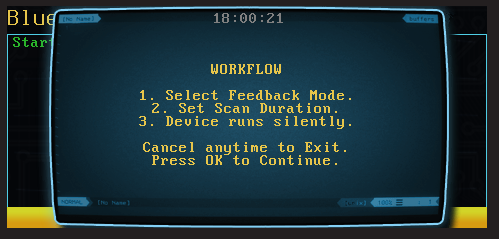
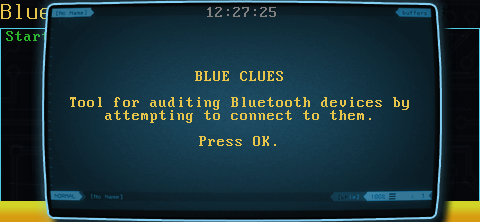
Scanner upgrade for more info
Upgraded Bluetooth scanner to allow for connection attempts to get as much info as possible.

Also integrated with Log Viewer payload for instant parsing to console after scan.

diff --git a/library/user/reconnaissance/blue_clues/README.md b/library/user/reconnaissance/blue_clues/README.md
@@ -1,56 +1,72 @@
 # Blue Clues
 
-**Blue Clues** is a Bluetooth reconnaissance tool for the WiFi Pineapple Pager. 
+**Blue Clues** is an active Bluetooth auditing tool for the WiFi Pineapple Pager. Unlike passive scanners that simply listen, Blue Clues actively interrogates devices to uncover their **Vendor**, **Device Type**, and **Services**.
 
-**Update (v2): Passive Scanning Mode**
-This tool has been reworked to focus on stealth and autonomy. Instead of manual "scan-and-review" cycles, Blue Clues now acts as a **Passive Scanner**. You configure the duration and feedback behavior once, and the device runs silently in the background, only alerting you when a target is captured.
+**Update: Active Audit & Deep Scan**
+This tool has been upgraded from a simple scanner to an **Active Auditor**. It now performs OUI Lookups, Class-of-Device translation (e.g., identifying "Headsets" vs "Phones"), and Service Discovery (SDP) to reveal what a device is actually capable of.
 
 ---
 
 ### Features
-* **Passive/Silent Operation:** The screen remains dark during operation to maintain stealth.
-* **Custom Feedback:** Configure alerts (LED, Vibe, Both, or Silent) to trigger *only* when a new device is found.
-* **Auto-Logging:** All findings are appended to a local file in real-time.
-* **Timestamped Entries:** Every captured device is logged with the exact time of discovery.
+* **Active Interrogation:** Connects to devices to request their "Real Name" if they are hiding it.
+* **Deep Scan (SDP):** Optional mode to enumerate all services (Audio, File Transfer, etc.) offered by a device.
+* **Vendor & Type Lookup:** Automatically translates MAC addresses into Manufacturers (OUI) and Hex Codes into Device Types (e.g., `[Headset]`, `[Smart Phone]`).
+* **Smart Deduplication:** Tracks devices in memory to prevent duplicate alerts for the same target.
+* **Ignore List:** Define a blacklist of MAC addresses (like your own phone) to remain invisible during scans.
 
 ---
 
 ### Workflow Tutorial
 
-**1. Workflow Briefing**
-The payload begins by outlining the passive scanning process.
-
+**1. Mission Briefing**
+The payload begins by confirming the "Audit" workflow, which involves active connection attempts.
 ![Workflow](screens/Capture_01.png)
 
 **2. Feedback Configuration**
-First, decide how the device should alert you when a Bluetooth device is detected.
-* **Silent:** Logs data but gives no physical cue.
-* **LED/Vibe:** Visual or haptic confirmation of a capture.
-* 
+Decide how the device should alert you when a *new* unique target is identified.
+* **Silent:** Logs data invisibly.
+* **LED/Vibe:** Visual (Red Flash) or Haptic buzz upon finding a new device.
 ![Options](screens/Capture_02.png)
 
-**3. Select Mode**
-Use the number picker to confirm your feedback selection.
-
-![Feedback Picker](screens/Capture_03.png)
+**3. Deep Scan Selection**
+Choose your depth of analysis:
+* **No (Standard):** Fast. Grabs MAC, Vendor, Class, and Name. Skips Service Discovery if the device name is known.
+* **Yes (Slower):** Thorough. Connects to *every* device to list all available services.
+![Deep Scan](screens/Capture_06.png)
 
 **4. Set Duration**
-Enter the duration for the passive scan (in minutes). The device will loop continuously for this timeframe.
+Enter the runtime for the audit (in minutes).
+![Duration Picker](screens/Capture_05.png)
 
-![Duration Picker](screens/Capture_04.png)
-
-**5. Start Run**
-The device confirms your settings. Once you press **OK**, the screen goes dark and the passive scan begins.
-* *Note: Press Cancel at any time to abort the session.*
-
-![Start](screens/Capture_05.png)
+**5. Execution**
+The device confirms the save location and begins the audit loop.
+![Start](screens/Capture_08.png)
 
 ---
 
-### Log Format
-Files are saved as `blueclues_YYYYMMDD_HHMMSS.txt` in the script directory.
+### 📊 Log Viewer Integration
 
-```text
-18:05:01    00:11:22:33:44:55    Mike's iPhone
+Blue Clues is designed to work seamlessly with the **Log Viewer** payload. Upon completion, it automatically passes the captured data to the viewer for immediate analysis.
 
-18:05:12    AA:BB:CC:DD:EE:FF    Tesla Model 3
+**Sample Output:**
+![Log View](screens/Capture_09.png)
+
+---
+
+### ⚙ Configuration & Integration
+
+#### Ignore List
+To hide specific devices (like your own phone) from the scan, create a file named `ignore_list.txt` in the same directory as the payload. Add one MAC address per line.
+
+#### Headless Integration
+You can call the Log Viewer from this payload (or others) using the following arguments:
+
+| Argument | Description | Example |
+| :--- | :--- | :--- |
+| **$1** | `File Path` | Absolute path to the log file. |
+| **$2** | `Mode` | `1` = Color (Parsed), `2` = Raw Text. |
+
+**Example Call:**
+```bash
+/root/payloads/user/general/log_viewer/payload.sh "/root/loot/blue_clues/scan.txt" 1
+```
